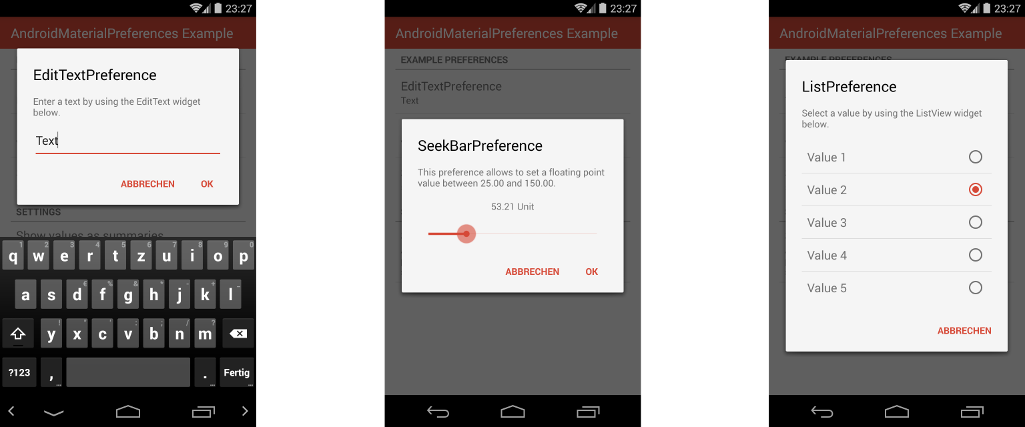
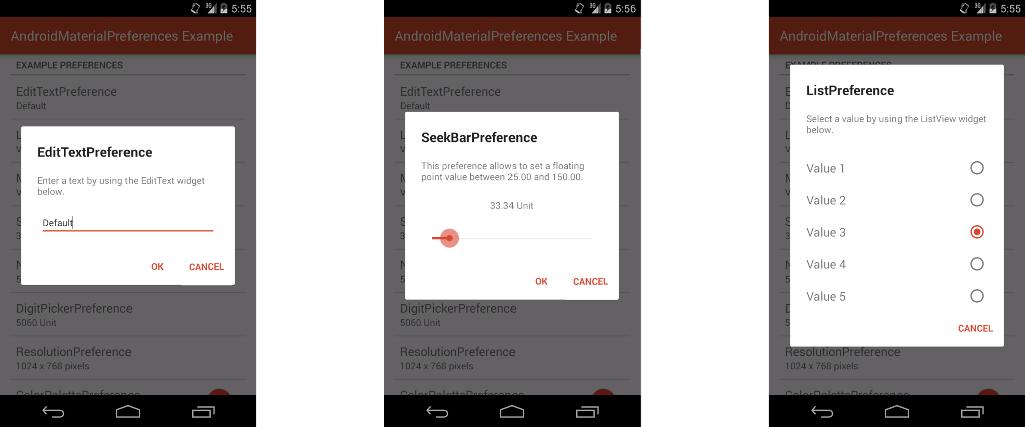
Added screenshots and edited readme.

diff --git a/README.md b/README.md
@@ -67,6 +67,20 @@ Most of the preferences, which are provided by the library show a dialog when th
 
 If the theme of one of the preferences used in the app should differ from those used by the other ones, the attribute `custom:dialogThemeResource` can be used when specifying the preference as a XML resource. The examples shown below illustrate the use of this attribute.
 
+### Showing a header
+
+All preferences, which show a dialog, when they are clicked, can show a header at the top of their dialog. The header may contain a background color or image as well as an icon. In order to show such a header, the following XML attributes have to be added to the XML resource, which is used to declare the preference:
+
+```xml
+custom:showDialogHeader="true"
+custom:dialogHeaderBackground="@drawable/dialog_header_background"
+custom:dialogHeaderIcon="@drawable/dialog_header_icon"
+```
+
+A preference's dialog, which contains such a header, may look like shown in the screenshot below:
+
+![](doc/images/example-header-preference.png)
+
 ### SeekBarPreference
 
 The XML code below shows how to declare a `SeekBarPreference` as part of a `PreferenceScreen`. The example contains all of the preference's custom attributes.
@@ -99,6 +113,10 @@ The XML code below shows how to declare a `SeekBarPreference` as part of a `Pref
 </PreferenceScreen>
 ```
 
+The following screenshot shows how a `SeekBarPreference` may look like:
+
+![](doc/images/example-seek-bar-preference.png)
+
 ### EditTextPreference
 
 The example below shows how the attributes of an `EditTextPreference` can be specified within a XML resource.
@@ -124,6 +142,10 @@ The example below shows how the attributes of an `EditTextPreference` can be spe
 
 </PreferenceScreen>
 ```
+
+The picture shown below show the appearance of a `EditTextPreference`:
+
+![](doc/images/example-edit-text-preference.png)
 
 ### ListPreference
 
@@ -155,6 +177,10 @@ The example illustrates how the attributes of a `ListPreference` can be specifie
 </PreferenceScreen>
 ```
 
+The screenshot below illustrates the appearance of a `ListPreference`:
+
+![](doc/images/example-list-preference.png)
+
 ### MultiChoiceListPreference
 
 The following XML code shows how the attributes of a `MultiChoiceListPreference` can be specified, if the preference should be declared within a XML resource.
@@ -184,6 +210,10 @@ The following XML code shows how the attributes of a `MultiChoiceListPreference`
 
 </PreferenceScreen>
 ```
+
+The screenshot, which is shown in the following, illustrates how a `MultiChoiceListPreference` may look like:
+
+![](doc/images/example-multi-choice-list-preference.png)
 
 ### NumberPickerPreference
 
@@ -217,6 +247,10 @@ The following example illustrates how of a `NumberPickerPreference` can be speci
 </PreferenceScreen>
 ```
 
+The screenshot below illustes how a `SeekBarPreference` may look like:
+
+![](doc/images/example-number-picker-preference.png)
+
 ### DigitPickerPreference
 
 The following example illustrates how of a `DigitPickerPreference` can be declared within a XML resource.
@@ -247,6 +281,10 @@ The following example illustrates how of a `DigitPickerPreference` can be declar
 </PreferenceScreen>
 ```
 
+The image shown below shows the appearance of a `DigitPickerPreference`:
+
+![](doc/images/example-digit-picker-preference.png)
+
 ### ResolutionPreference
 
 The following XML code shows how of a `ResolutionPreference` can be declared within a XML resource.
@@ -273,6 +311,10 @@ The following XML code shows how of a `ResolutionPreference` can be declared wit
 
 </PreferenceScreen>
 ```
+
+The following screenshot illustrates the appearance of a `ResolutionPreference`:
+
+![](doc/images/example-resolution-preference.png)
 
 ### ColorPalettePreference
 
@@ -313,6 +355,11 @@ The following XML structure illustrates how a `ColorPalettePreference` can be sp
 
 </PreferenceScreen>
 ```
+
+A `ColorPalettePreference` may look like shown in the screenshot below:
+
+![](doc/images/example-color-palette-preference.png)
+
 ### SwitchPreference
 
 The following XML code shows how a `SwitchPreference` can be declared within a XML resource.
